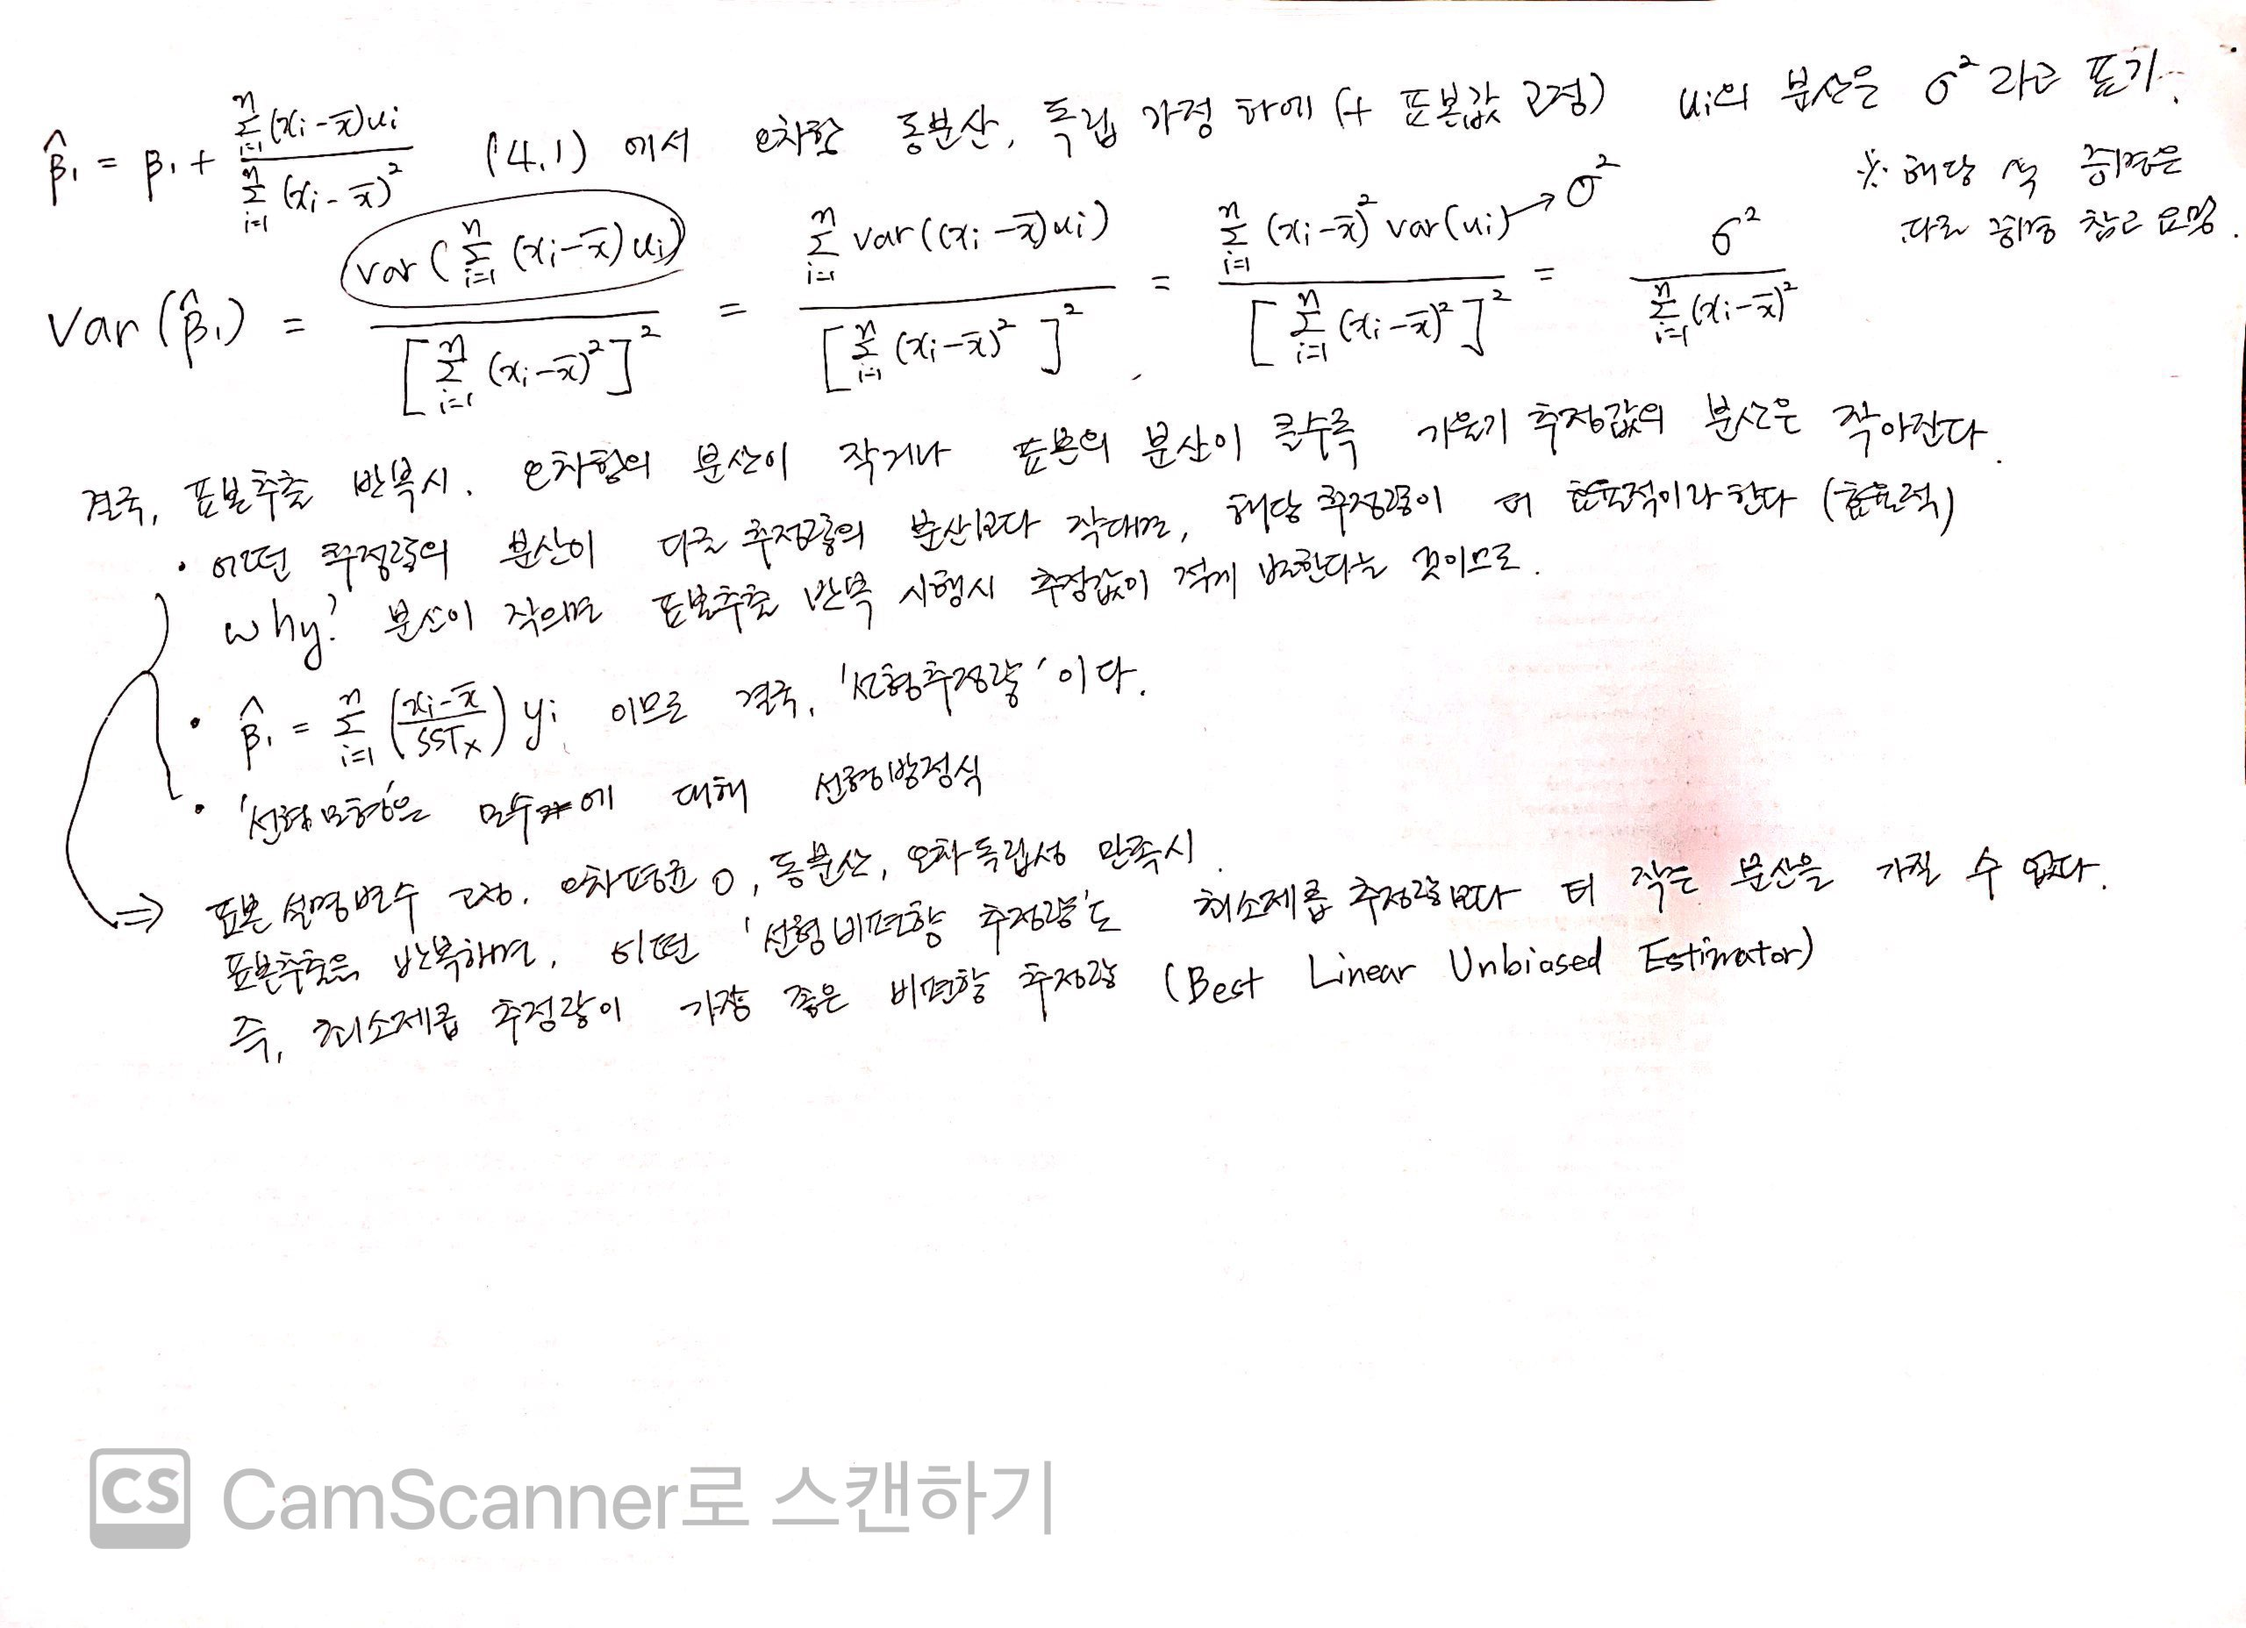
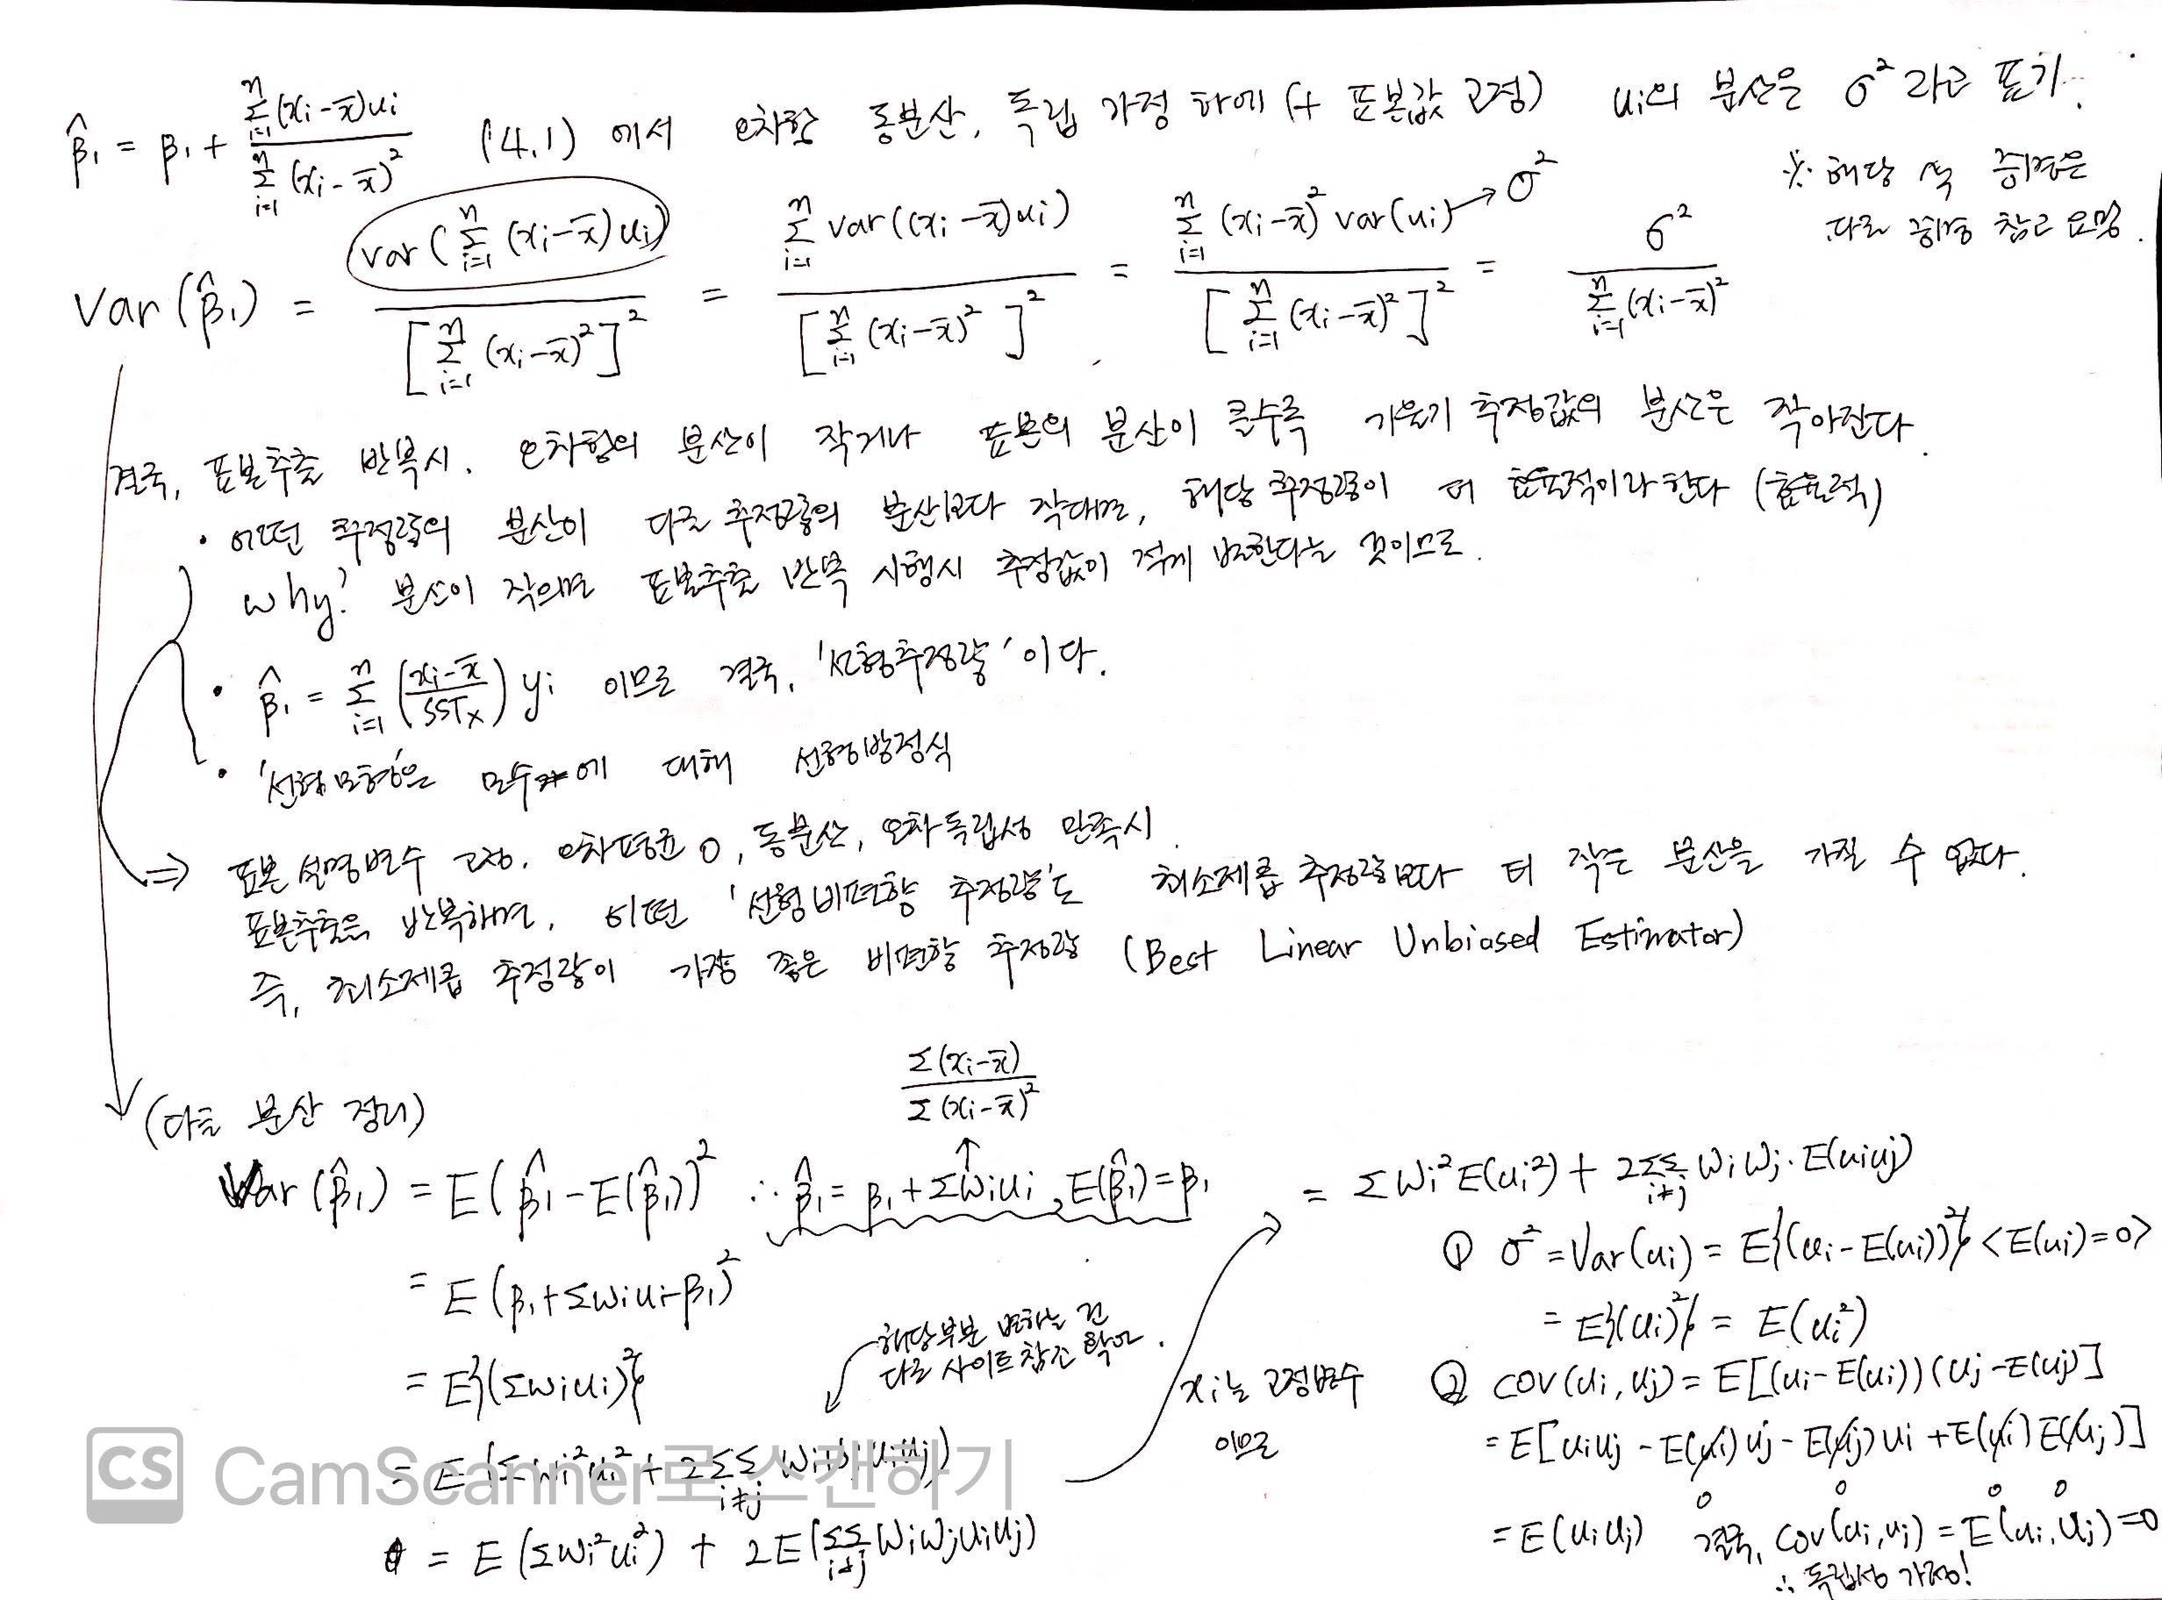
modify the post

diff --git a/_posts/2020-12-21-Math-Theorem.md b/_posts/2020-12-21-Math-Theorem.md
@@ -7,7 +7,7 @@ categories:
 tags:
   - Blog
 use_math: true
-last_modified_at: 2020-12-23
+last_modified_at: 2020-12-24
 ---
 ### 직교방정식 & 최소제곱 추정량 평균
 
@@ -16,5 +16,10 @@ last_modified_at: 2020-12-23
 * 위 마지막 정리에 의해 최소제곱 추정량은 가정하에 표본추출 반복시 결국, 모수와 동일하게 된다.
 
 ![](https://d-won.github.io/assets/images/theorem2.jpg)
+![](https://d-won.github.io/assets/images/theorem3.jpg)
 
-* 개인적으로 최소제곱 추정량의 분산증명은 https://blog.naver.com/yunjh7024/220881024021 이 사이트에서 증명이 더 낫다고 생각된다.
+* 개인적으로 최소제곱 추정량의 분산 정리에서 공분산이 0 (오차의 독립성)이 활용되는 과정에서는 아래 사이트 확인 필요
+* https://blog.naver.com/yunjh7024/220881024021 
+* 개인적으로 계량경제학책의 증명은 분산의 성질과 중간 과정을 건너 뛰어 위에서 정리한 내용이 더 좋다고 생각됨
+* 가우스 마코프 증명 및 최소제곱 추정량 분산증명은 아래 사이트 참조
+* http://blog.naver.com/PostView.nhn?blogId=gdpresent&logNo=221138157186&proxyReferer=https:%2F%2Fwww.google.com%2F
